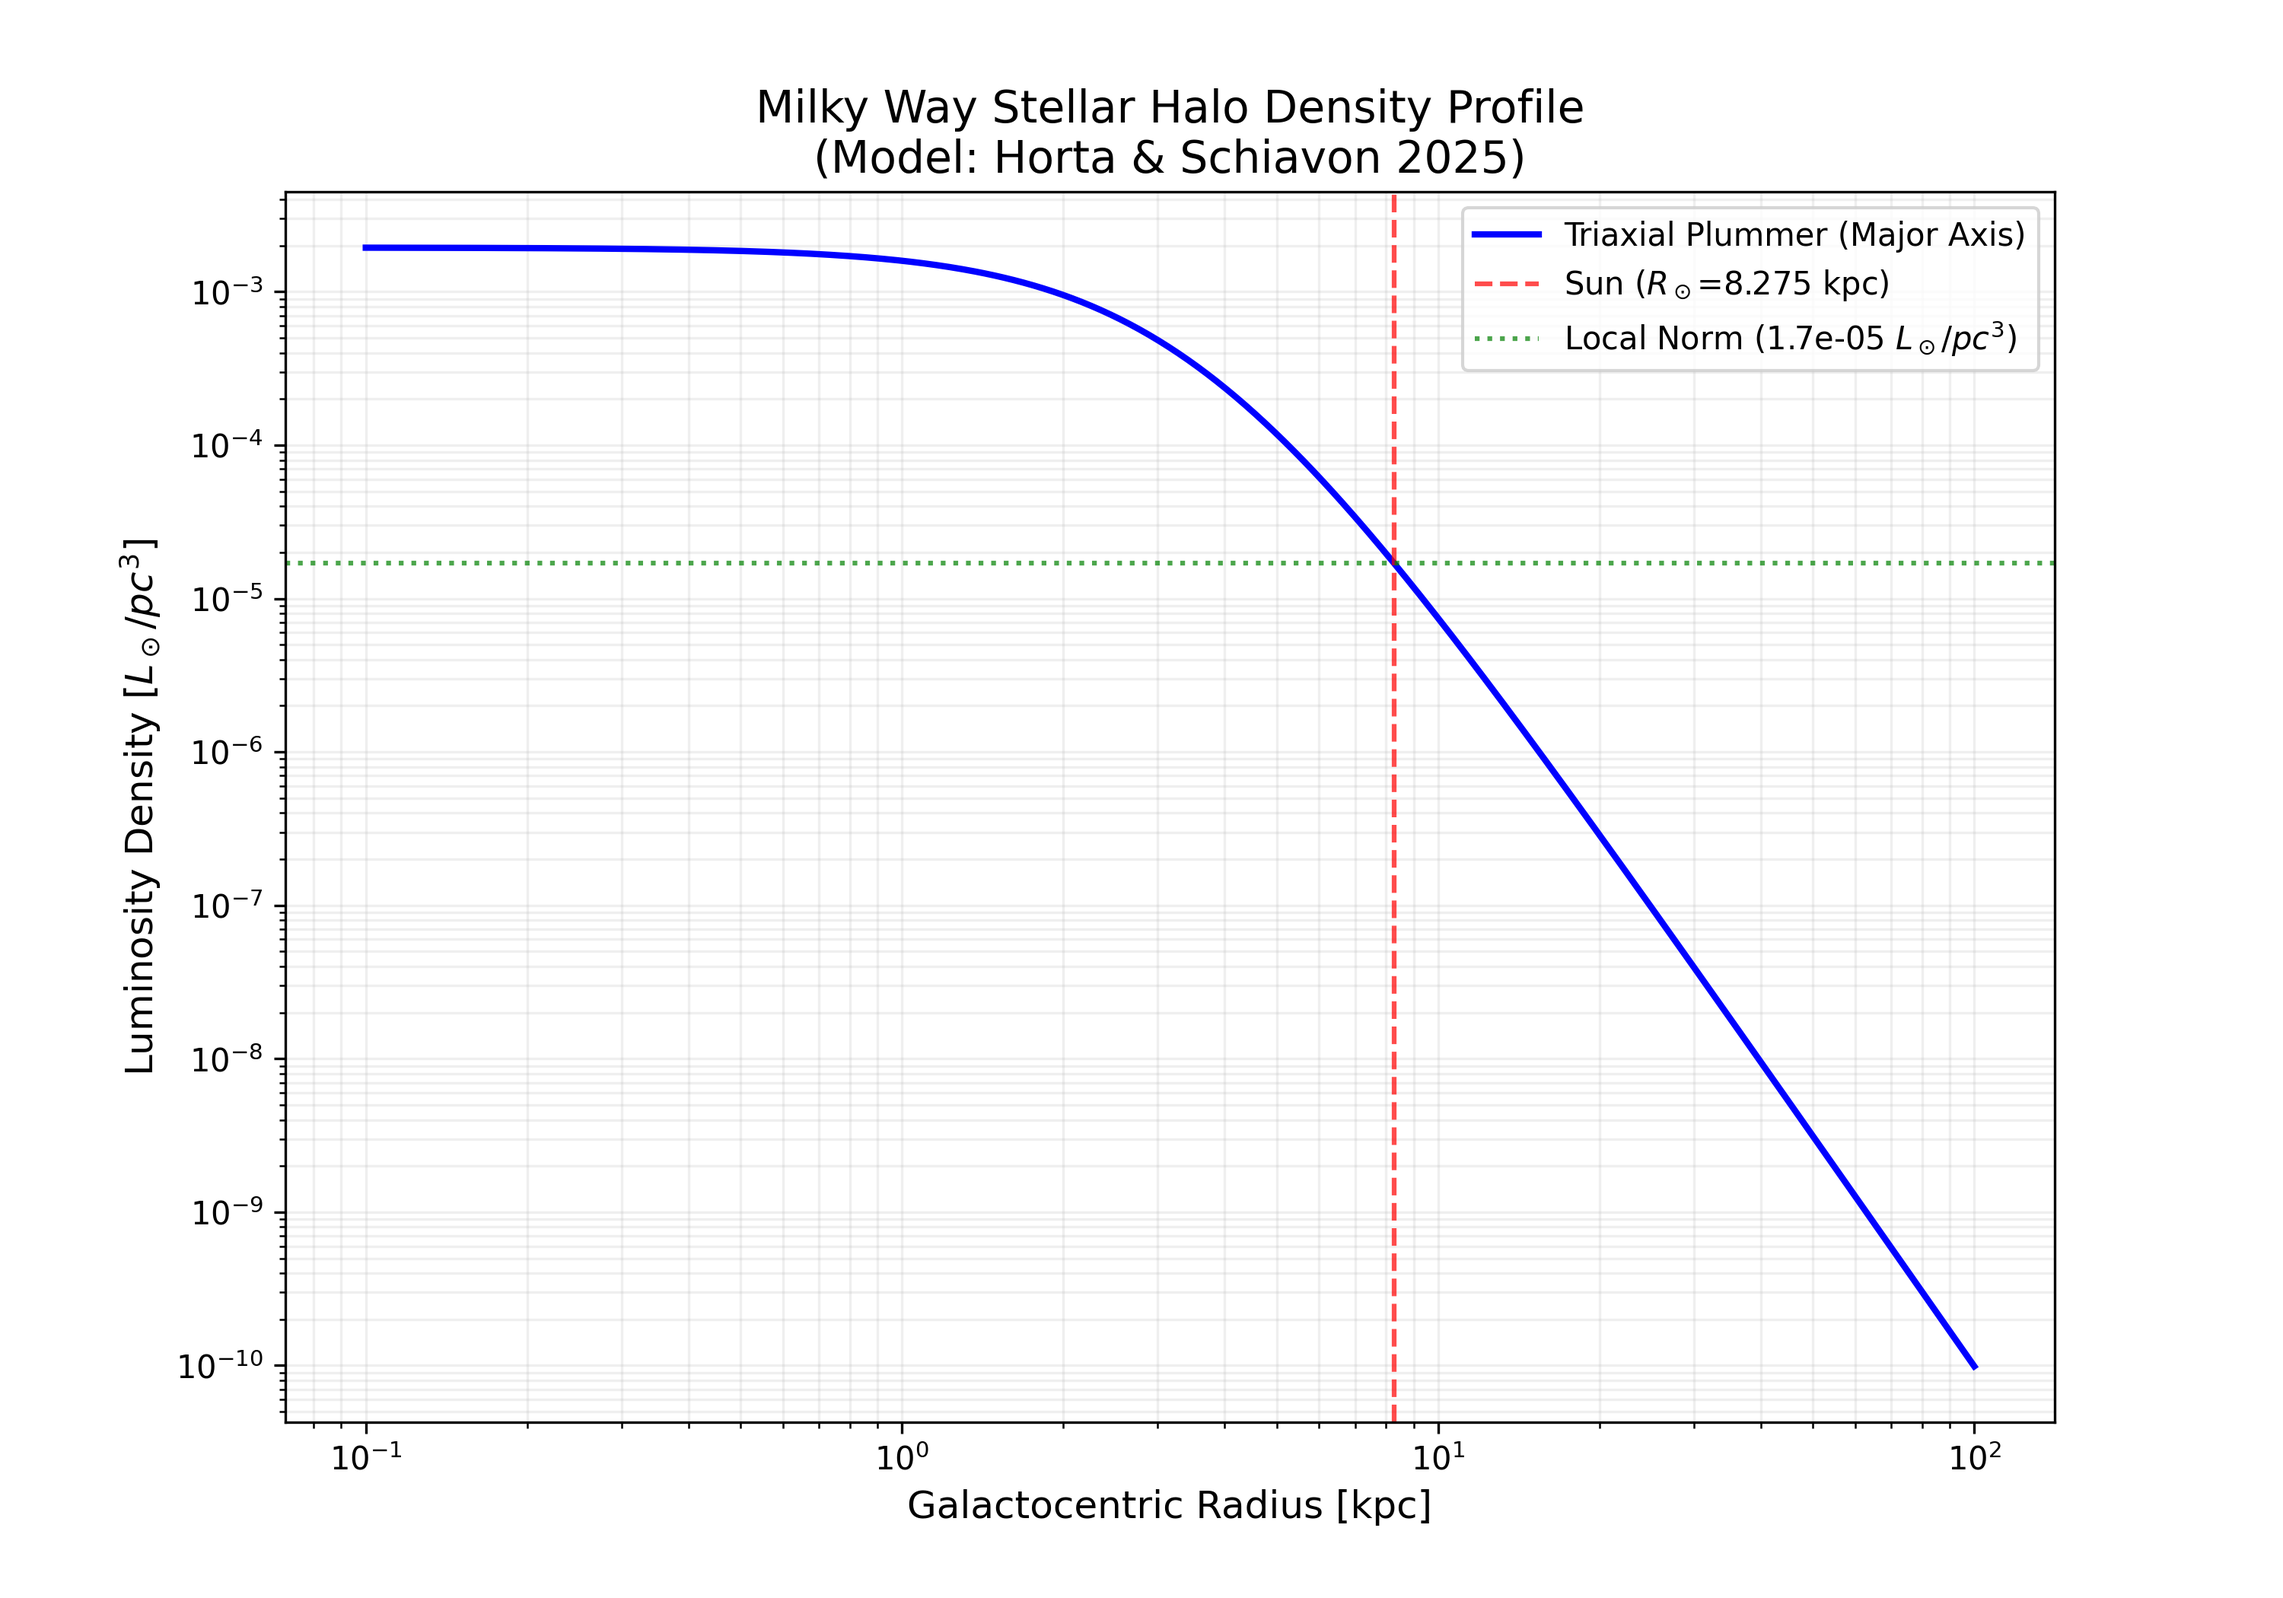
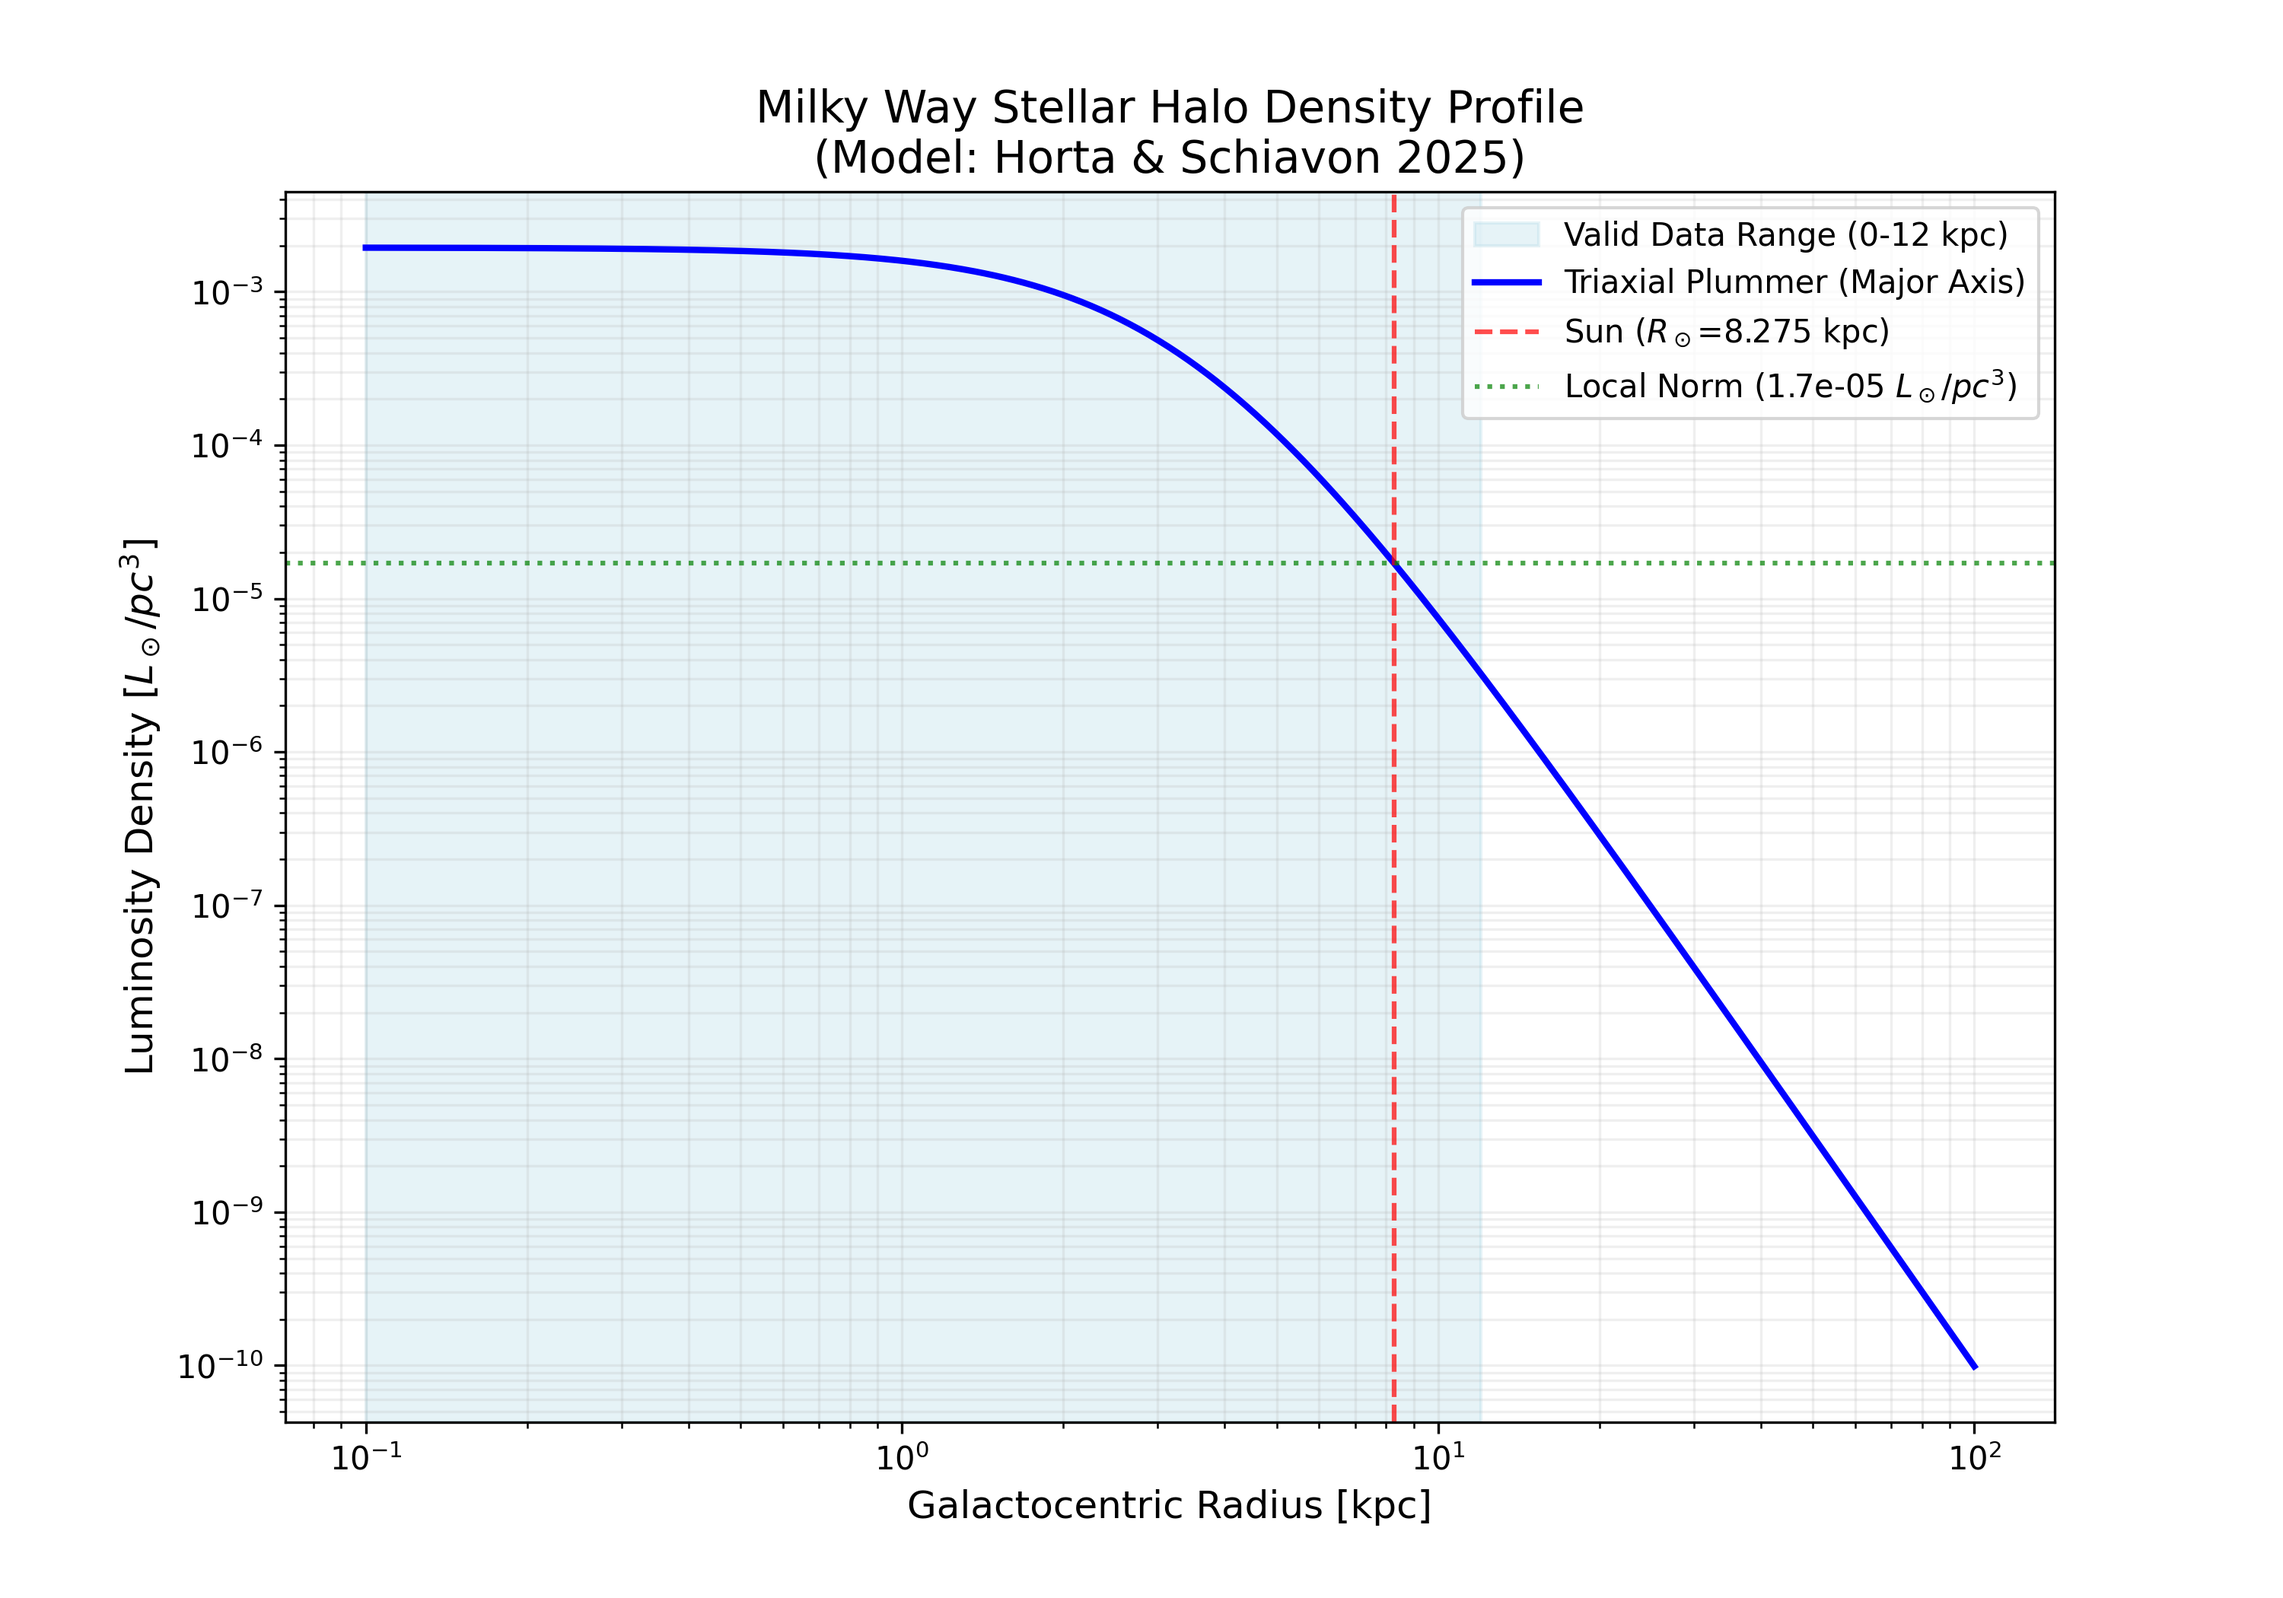
Add files via upload
Added range over which radial data for the stellar halo model has been fit. Ranges read from PDF directly by Gemini. Still need to be checked for validity.

Changed region(s): [[0.155, 0.1238, 0.899, 0.8976]]

diff --git a/script.js b/script.js
@@ -31,6 +31,7 @@ function router() {
 }
 
 let currentSort = { col: 'title', asc: true };
+let luminosityChartInstance = null;
 
 // Render Home View
 function renderHome() {
@@ -46,6 +47,7 @@ function renderHome() {
                     <tr>
                         <th class="${getSortClass('title')}" onclick="sortData('title')">Authors</th>
                         <th class="${getSortClass('model_type')}" onclick="sortData('model_type')">Model Type</th>
+                        <th class="${getSortClass('range')}" onclick="sortData('range')">Valid Range</th>
                         <th class="${getSortClass('luminosity')}" onclick="sortData('luminosity')">Luminosity</th>
                         <th>Actions</th>
                     </tr>
@@ -57,6 +59,7 @@ function renderHome() {
                                 <a href="${model.paper_url}" target="_blank">${model.title}</a>
                             </td>
                             <td>${model.parameters.Model}</td>
+                            <td>${model.range ? `${model.range.min} - ${model.range.max} kpc` : 'N/A'}</td>
                             <td>${model.luminosity}</td>
                             <td>
                                 <a href="#/model/${model.id}" class="btn">Explore Model</a>
@@ -66,8 +69,73 @@ function renderHome() {
                 </tbody>
             </table>
         </div>
+
+        <div class="chart-section">
+            <h3>Luminosity Comparison</h3>
+            <div class="chart-container">
+                <canvas id="luminosityChart"></canvas>
+            </div>
+        </div>
     `;
     app.innerHTML = html;
+    renderLuminosityChart();
+}
+
+function renderLuminosityChart() {
+    const ctx = document.getElementById('luminosityChart');
+    if (!ctx) return;
+
+    if (luminosityChartInstance) {
+        luminosityChartInstance.destroy();
+    }
+
+    const labels = modelData.map(m => m.title);
+    const data = modelData.map(m => parseFloat(m.luminosity.split(' ')[0]));
+
+    luminosityChartInstance = new Chart(ctx, {
+        type: 'bar',
+        data: {
+            labels: labels,
+            datasets: [{
+                label: 'Total Halo Luminosity (L⊙)',
+                data: data,
+                backgroundColor: 'rgba(44, 62, 80, 0.7)',
+                borderColor: 'rgba(44, 62, 80, 1)',
+                borderWidth: 1
+            }]
+        },
+        options: {
+            responsive: true,
+            maintainAspectRatio: false,
+            scales: {
+                y: {
+                    beginAtZero: true,
+                    title: {
+                        display: true,
+                        text: 'Luminosity (L⊙)'
+                    }
+                },
+                x: {
+                    ticks: {
+                        minRotation: 45,
+                        maxRotation: 45
+                    }
+                }
+            },
+            plugins: {
+                legend: {
+                    display: false
+                },
+                tooltip: {
+                    callbacks: {
+                        label: function(context) {
+                            return `Luminosity: ${context.parsed.y.toExponential(2)} L⊙`;
+                        }
+                    }
+                }
+            }
+        }
+    });
 }
 
 function performSort(col, skipRender = false) {
@@ -89,6 +157,9 @@ function performSort(col, skipRender = false) {
         } else if (col === 'model_type') {
             valA = a.parameters.Model.toLowerCase();
             valB = b.parameters.Model.toLowerCase();
+        } else if (col === 'range') {
+            valA = a.range ? a.range.max : 0;
+            valB = b.range ? b.range.max : 0;
         } else if (col === 'luminosity') {
             // Parse "3.61e+08 L⊙" into a number
             valA = parseFloat(a.luminosity.split(' ')[0]);
@@ -142,6 +213,7 @@ function renderDetail(id) {
                         
                         <h3>Model Parameters</h3>
                         <table class="parameters-table">
+                            <tr><th>Valid Data Range</th><td>${model.range ? `${model.range.min} - ${model.range.max} kpc` : 'N/A'}</td></tr>
                             ${paramRows}
                         </table>
                         

diff --git a/style.css b/style.css
@@ -141,6 +141,26 @@ main {
     font-size: 0.85rem;
 }
 
+/* Chart Section */
+.chart-section {
+    margin-top: 50px;
+    background: var(--white);
+    padding: 30px;
+    border-radius: 8px;
+    box-shadow: 0 4px 15px rgba(0,0,0,0.05);
+}
+
+.chart-section h3 {
+    margin-bottom: 25px;
+    color: var(--primary-color);
+    font-size: 1.5rem;
+}
+
+.chart-container {
+    height: 400px;
+    position: relative;
+}
+
 /* Detail View */
 .model-detail h2 {
     font-size: 2rem;

diff --git a/index.html b/index.html
@@ -5,6 +5,7 @@
     <meta name="viewport" content="width=device-width, initial-scale=1.0">
     <title>Models of the Milky Way stellar halo</title>
     <link rel="stylesheet" href="style.css">
+    <script src="https://cdn.jsdelivr.net/npm/chart.js"></script>
 </head>
 <body>
     <header>

diff --git a/assets/yang2022_density_model.py b/assets/yang2022_density_model.py
@@ -1,0 +1,83 @@
+import numpy as np
+import matplotlib.pyplot as plt
+
+def calculate_yang2022_halo():
+    # Parameters from Yang et al. (2022) - AJ 164:241
+    # Double-broken power law
+    a1, a2, a3 = 1.5, 2.8, 6.1
+    rb1, rb2 = 10.0, 25.0
+    
+    # Flattening q: 0.5 at r < 5, 0.8 at r > 30.
+    # We'll use a simple linear interpolation or just the values for the integration.
+    # For simplicity in luminosity calc, let's use the profile with q changing.
+    def q_func(r):
+        if r < 5: return 0.5
+        if r > 30: return 0.8
+        return 0.5 + (0.8 - 0.5) * (r - 5) / (30 - 5)
+
+    R_sun = 8.275 
+
+    # User local norm
+    rho_local_Lsun_pc3 = 1.7e-5
+    rho_local_Lsun_kpc3 = rho_local_Lsun_pc3 * (1000**3)
+
+    # Double-Broken Power Law Profile
+    def profile(r):
+        if r < rb1:
+            return r**-a1
+        elif r < rb2:
+            return (rb1**(a2-a1)) * (r**-a2)
+        else:
+            C = rb1**(a2-a1)
+            return (C * rb2**(a3-a2)) * (r**-a3)
+
+    # Normalization at the Sun
+    norm_at_sun = profile(R_sun)
+    rho_0 = rho_local_Lsun_kpc3 / norm_at_sun
+
+    # Numerical Integration for Luminosity
+    # L = 4 * pi * Integral[ q(r) * rho(r) * r^2 dr ]
+    from scipy.integrate import quad
+    
+    def integrand(r):
+        return q_func(r) * profile(r) * r**2
+    
+    # Integrate from 0.1 to 150 kpc
+    result, error = quad(integrand, 0.1, 150.0)
+    L_total = 4 * np.pi * rho_0 * result
+
+    print(f"--- Yang et al. (2022) Halo Properties ---")
+    print(f"Central Norm (at 1kpc): {rho_0:.2e} Lsun/kpc^3")
+    print(f"Total Halo Luminosity:  {L_total:.2e} Lsun")
+    print(f"Break Radii:            {rb1} kpc, {rb2} kpc")
+    print(f"Inner Index (a1):       {a1}")
+    print(f"Middle Index (a2):      {a2}")
+    print(f"Outer Index (a3):       {a3}")
+    print(f"Flattening (q):         0.5 (inner) to 0.8 (outer)")
+    print(f"-------------------------------------------")
+
+    # Plotting
+    r_vals = np.logspace(0, 2.2, 500)
+    rho_vals = np.array([rho_0 * profile(r) for r in r_vals])
+
+    plt.figure(figsize=(10, 7))
+    plt.axvspan(5, 50, color='lightblue', alpha=0.3, label='Valid Data Range (5-50 kpc)')
+    plt.loglog(r_vals, rho_vals / (1000**3), color='darkgreen', linewidth=2, label='Yang et al. (2022) Model')
+    
+    # Markers
+    plt.axvline(rb1, color='gray', linestyle=':', label=f'Inner Break ({rb1} kpc)')
+    plt.axvline(rb2, color='gray', linestyle='--', label=f'Outer Break ({rb2} kpc)')
+    plt.axvline(R_sun, color='blue', linestyle='-.', alpha=0.5, label='Solar Position')
+    plt.axhline(rho_local_Lsun_pc3, color='green', linestyle='-', alpha=0.2, label='Local Normalization')
+
+    plt.title('Milky Way Stellar Halo Density Profile (Yang et al. 2022)', fontsize=14)
+    plt.xlabel('Radius $r$ [kpc]', fontsize=12)
+    plt.ylabel('Luminosity Density [$L_\\odot/pc^3$]', fontsize=12)
+    plt.legend(frameon=True)
+    plt.grid(True, which="both", ls="-", alpha=0.2)
+    
+    plt.savefig('assets/yang2022_density_profile.png', dpi=300)
+    print("Plot saved to: assets/yang2022_density_profile.png")
+
+if __name__ == "__main__":
+    calculate_yang2022_halo()

diff --git a/assets/han2022_density_model.py b/assets/han2022_density_model.py
@@ -52,6 +52,7 @@ def calculate_han2022_halo():
     rho_vals = np.array([rho_0 * profile(r) for r in r_vals])
 
     plt.figure(figsize=(10, 7))
+    plt.axvspan(5, 50, color='lightblue', alpha=0.3, label='Valid Data Range (5-50 kpc)')
     plt.loglog(r_vals, rho_vals / (1000**3), color='darkred', linewidth=2, label='Han et al. (2022) GSE Model')
     
     # Markers
@@ -66,8 +67,8 @@ def calculate_han2022_halo():
     plt.legend(frameon=True)
     plt.grid(True, which="both", ls="-", alpha=0.2)
     
-    plt.savefig('han2022_density_profile.png', dpi=300)
-    print("Plot saved to: han2022_density_profile.png")
+    plt.savefig('assets/han2022_density_profile.png', dpi=300)
+    print("Plot saved to: assets/han2022_density_profile.png")
 
 if __name__ == "__main__":
     calculate_han2022_halo()

diff --git a/assets/staf256_density_model.py b/assets/staf256_density_model.py
@@ -40,6 +40,7 @@ def calculate_halo_properties():
     rho_r = rho_0 * (1 + (r / a_kpc)**2)**(-2.5) # Density along X-axis
 
     plt.figure(figsize=(10, 7))
+    plt.axvspan(0.1, 12, color='lightblue', alpha=0.3, label='Valid Data Range (0-12 kpc)')
     plt.loglog(r, rho_r / (1000**3), color='blue', linewidth=2, label='Triaxial Plummer (Major Axis)')
     
     # Markers
@@ -53,7 +54,7 @@ def calculate_halo_properties():
     plt.legend(frameon=True, loc='best')
     plt.grid(True, which="both", ls="-", alpha=0.2)
     
-    output_png = 'staf256_density_profile.png'
+    output_png = 'assets/staf256_density_profile.png'
     plt.savefig(output_png, dpi=300)
     print(f"Plot saved to: {output_png}")
 

diff --git a/assets/amarante2024_density_model.py b/assets/amarante2024_density_model.py
@@ -73,6 +73,7 @@ def calculate_amarante2024_halo():
     rho_c = np.array([rho_0 * profile_with_core(r) for r in r_vals])
 
     plt.figure(figsize=(10, 7))
+    plt.axvspan(5, 120, color='lightblue', alpha=0.3, label='Valid Data Range (5-120 kpc)')
     plt.loglog(r_vals, rho_nc / (1000**3), color='blue', linestyle='--', alpha=0.5, label='Original (No Core)')
     plt.loglog(r_vals, rho_c / (1000**3), color='blue', linewidth=2, label='Modified (1 kpc Core)')
     

diff --git a/assets/chen2023_density_model.py b/assets/chen2023_density_model.py
@@ -55,6 +55,7 @@ def calculate_chen2023_halo():
     rho_vals = np.array([rho_0 * profile(r) for r in r_vals])
 
     plt.figure(figsize=(10, 7))
+    plt.axvspan(5, 100, color='lightblue', alpha=0.3, label='Valid Data Range (5-100 kpc)')
     plt.loglog(r_vals, rho_vals / (1000**3), color='purple', linewidth=2, label='Chen et al. (2023) BPL Model')
     
     # Markers
